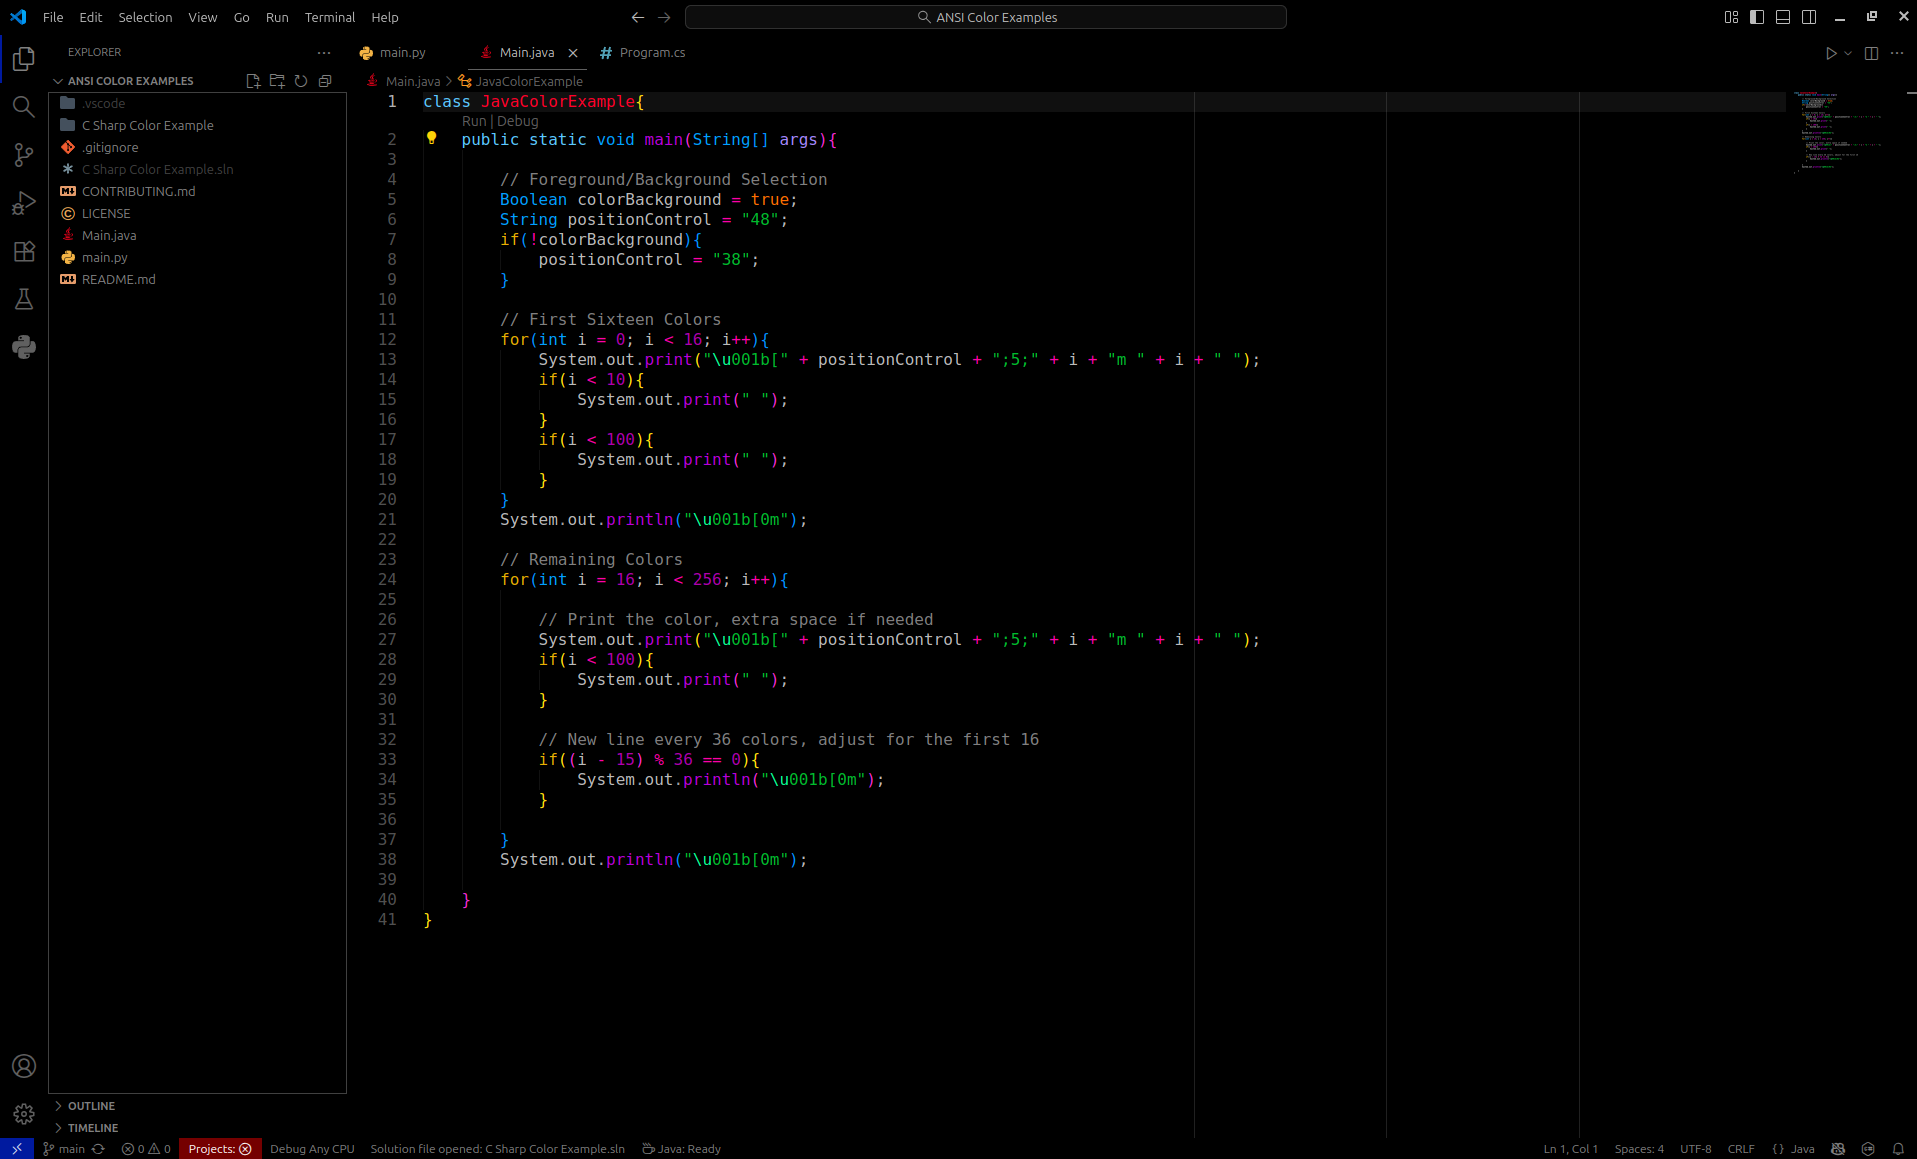
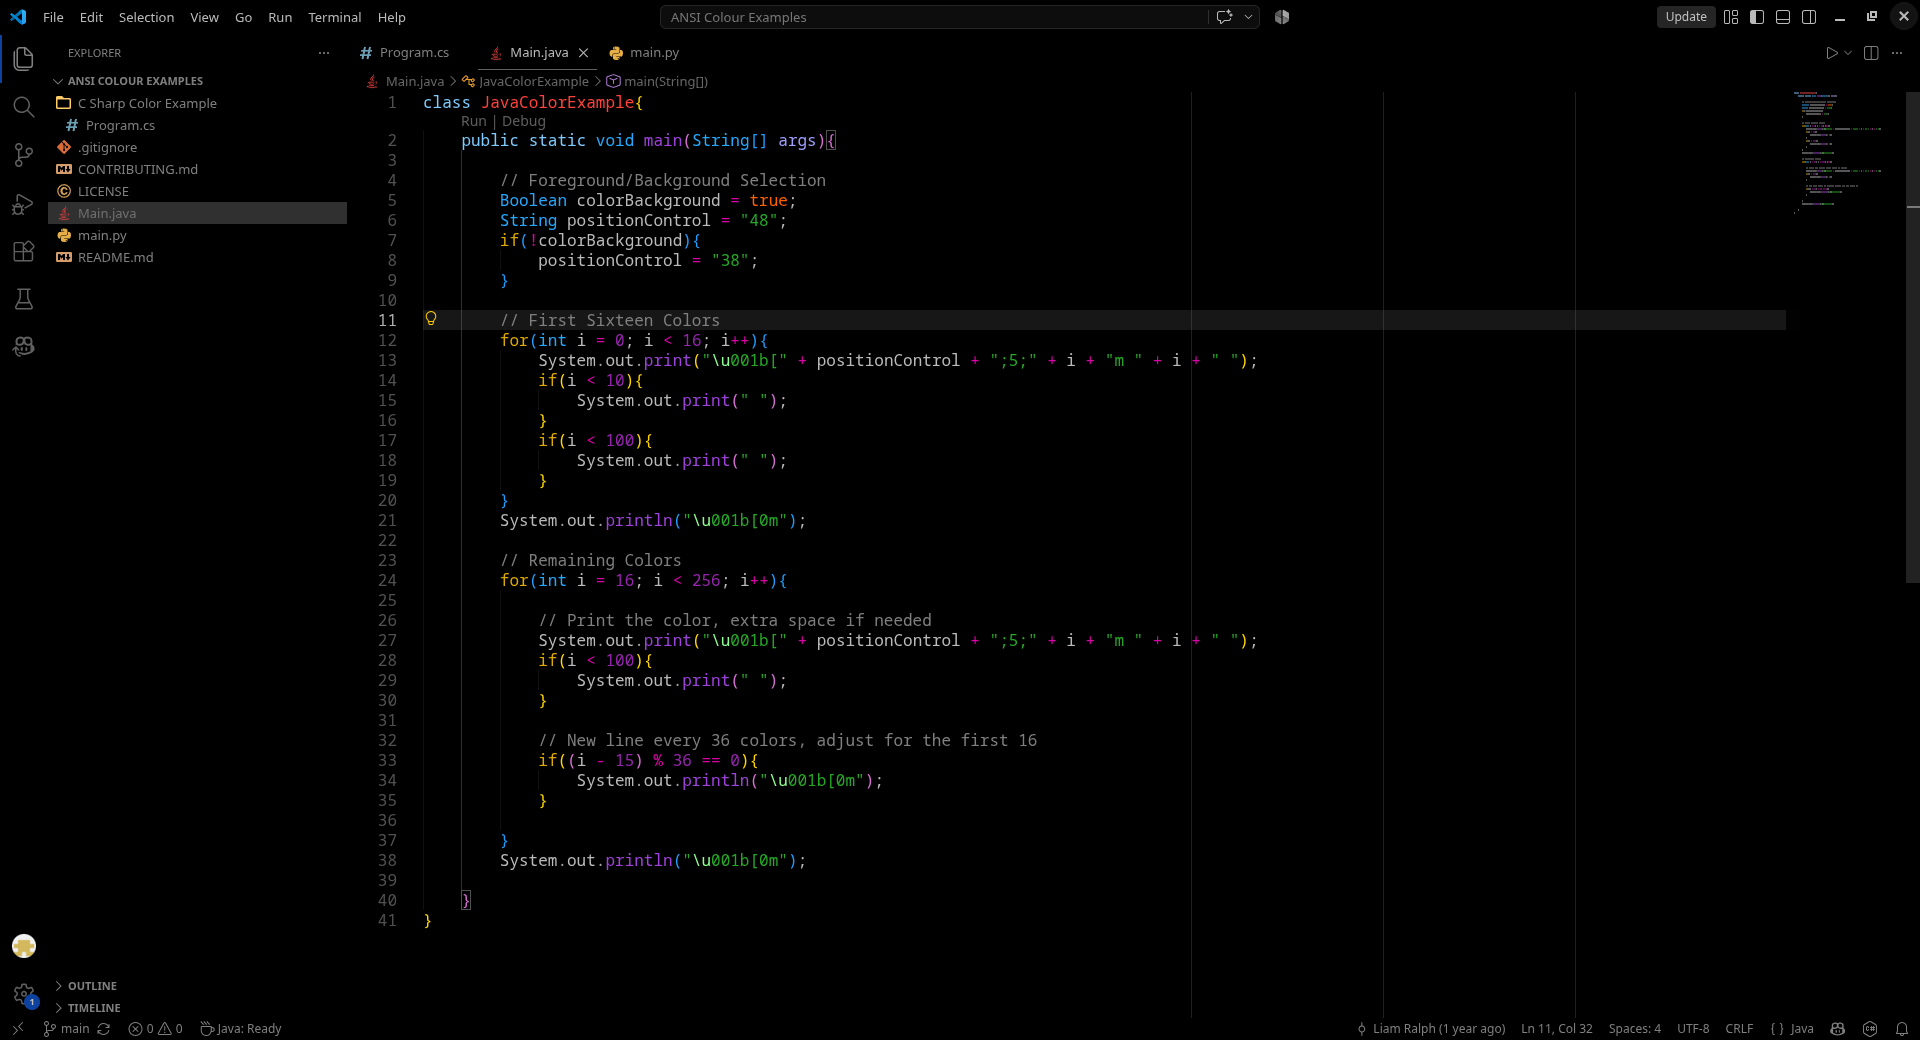
update markdown files, images, and package info

diff --git a/CHANGELOG.md b/CHANGELOG.md
@@ -1,29 +1,35 @@
+## Version 1.0.10 (September 2026)
+
+ - Changed constant and string import colors.
+ - Added other constants and self references.
+ - Expanded argument variables.
+
 ## Version 1.0.9 (November 2025)
 
- - Changed colour for editor find matches to distinguish from highlight matches.
+ - Changed color for editor find matches to distinguish from highlight matches.
 
 ## Version 1.0.8 (October 2025)
 
- - Changed function colour to differentiate from classes/structs.
- - Changed Markdown heading colours.
+ - Changed function color to differentiate from classes/structs.
+ - Changed Markdown heading colors.
 
 ## Version 1.0.7 (October 2025)
 
- - Modified selection background colours so they stand out more.
+ - Modified selection background colors so they stand out more.
 
 ## Version 1.0.6 (October 2025)
 
- - Changed colours for status bar during debugging.
+ - Changed colors for status bar during debugging.
 
 ## Version 1.0.5 (October 2025)
 
- - Changed colour for classes and structs.
- - Added documentation comment colour to Python.
+ - Changed color for classes and structs.
+ - Added documentation comment color to Python.
 
 ## Version 1.0.4 (October 2025)
 
  - Changed GitHub link.
- - Changed workbench link colours.
+ - Changed workbench link colors.
  - Changed Markdown screenshot.
 
 ## Version 1.0.3 (October 2025)
@@ -35,12 +41,12 @@
 
  - Edited markdown.
  - Added logo, screenshots.
- - Edited markdown link description colour.
- - Added keyword.type to variable type colour.
+ - Edited markdown link description color.
+ - Added keyword.type to variable type color.
 
 ## Version 1.0.1 (October 2025)
 
- - Fixed theme colours.
+ - Fixed theme colors.
 
 ## Version 1.0.0 (October 2025)
 

diff --git a/README.md b/README.md
@@ -1,7 +1,7 @@
 # BlackLite
 ### Released October 2025
-### Version 1.0.9
-### Updated November 2025
+### Version 1.0.10
+### Updated September 2026
 
 <br/>
 
